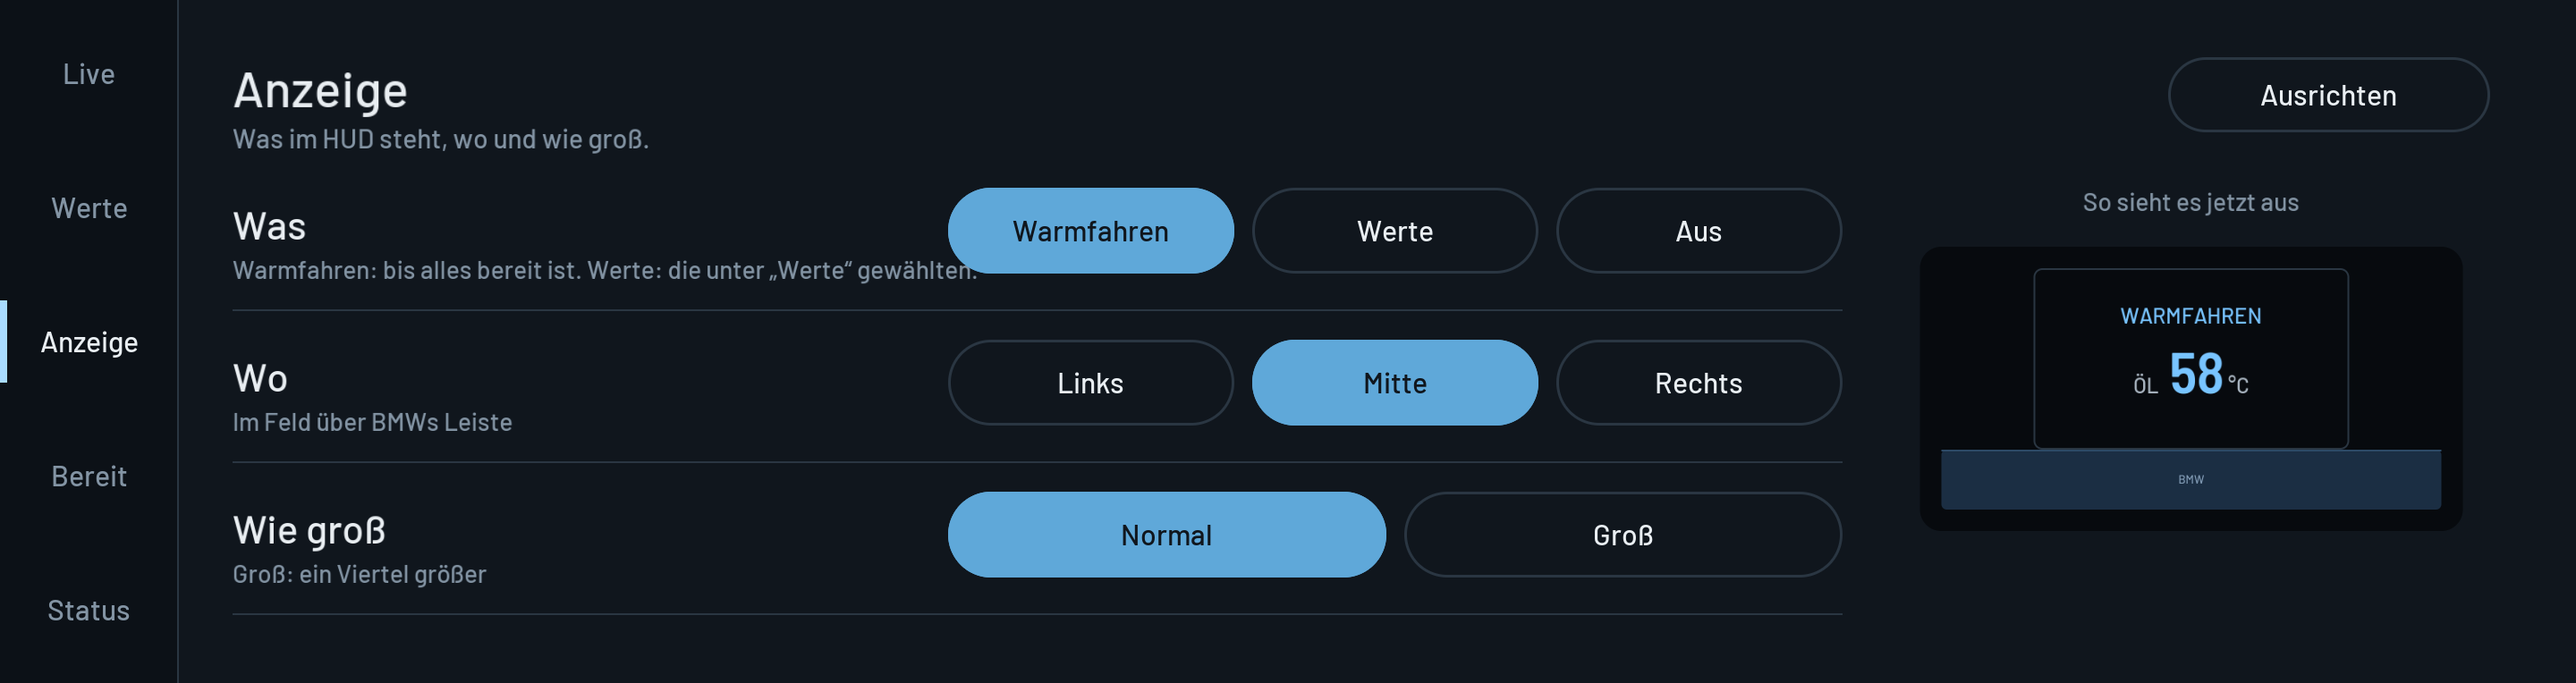
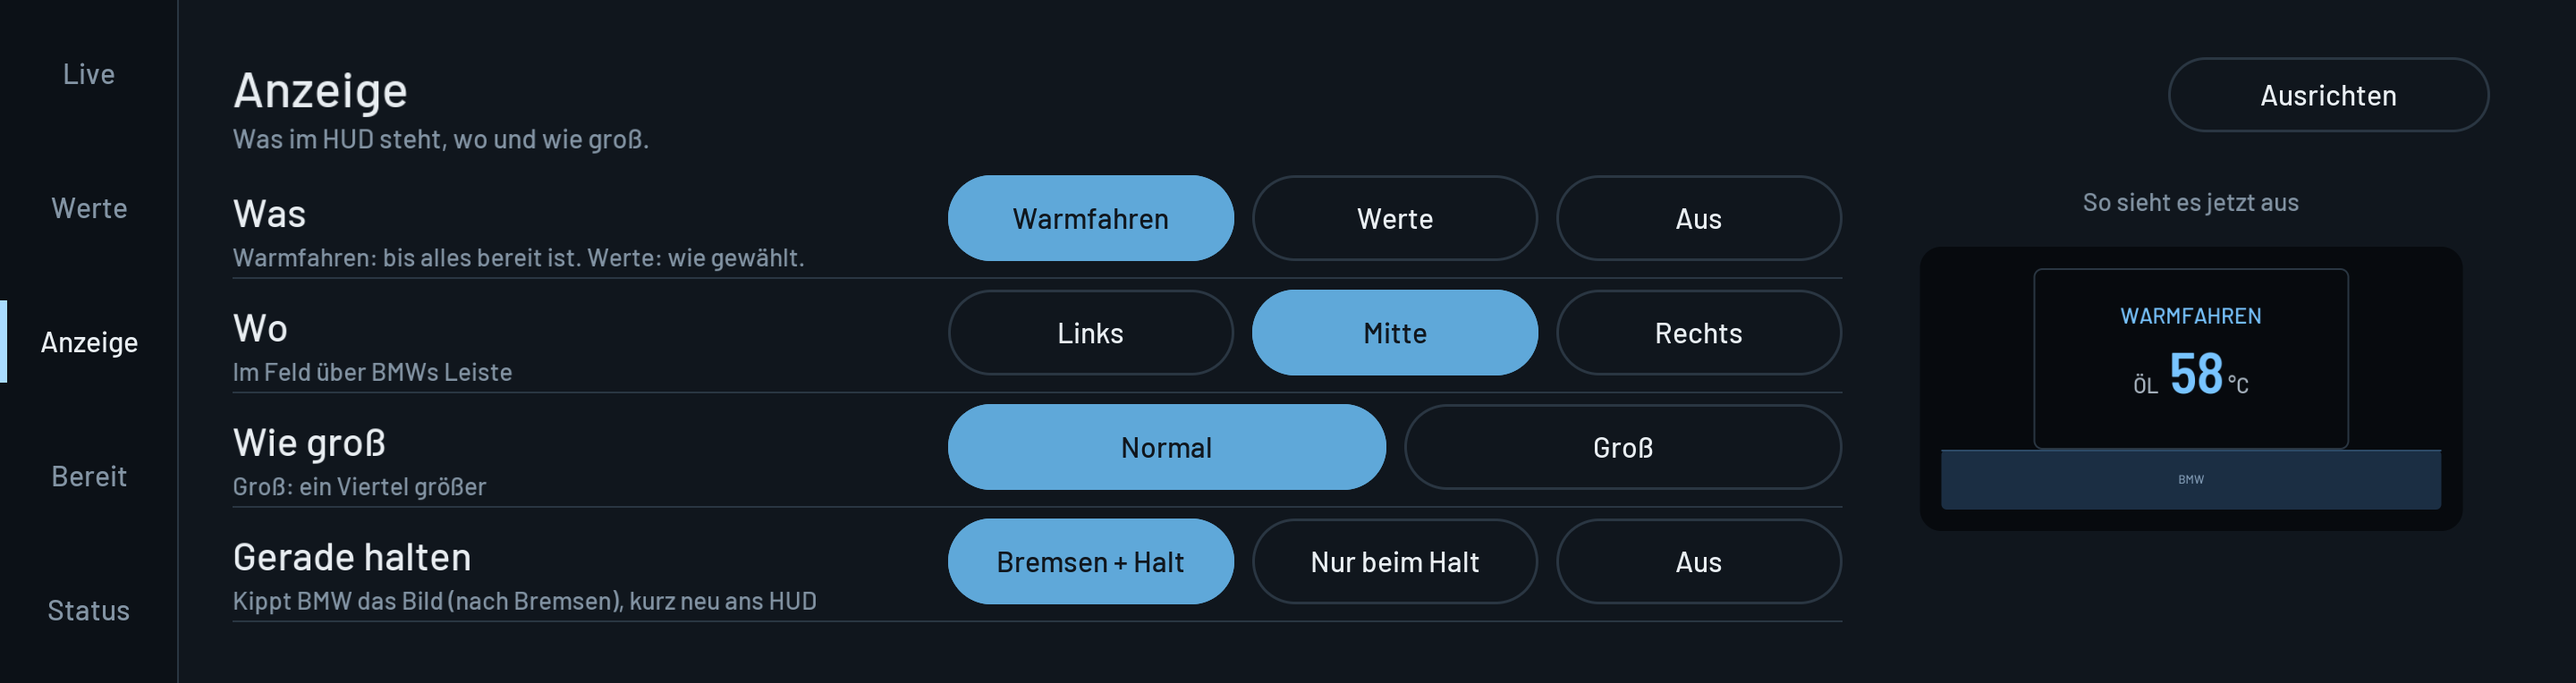
HUD 0.5.0: Gerade halten – Bild nach starkem Bremsen und beim Halt neu ans HUD
Das G87-HUD legt unser Bild nach staerkerem Bremsen schraeg (im Auto beobachtet, Kombi meldet nichts)
und richtet es erst bei neuer Uebergabe wieder gerade. Tempo (Vehicle2) und Laengsbeschleunigung (CDS2)
nur lesend; Bild 4 s weg, hoechstens alle 20 s; Einstellung Anzeige > Gerade halten; Protokoll.

diff --git a/apps/km_hudtest/tools/test_refresh.js b/apps/km_hudtest/tools/test_refresh.js
@@ -1,0 +1,120 @@
+'use strict';
+/**
+ * Gerade halten (settings refresh): the G87's HUD keeps our picture slanted after harder braking until it is handed
+ * over anew. From the car's speed (Vehicle2) and braking (CDS2) signals: a moment after harder braking and at a stop
+ * after driving, the picture goes away for REFRESH_HIDE_MS (the renderer gives the HUD back) and comes again; at most
+ * every REFRESH_GAP_MS; never with the setting off; noted in diag.log.
+ *
+ *   node apps/km_hudtest/tools/test_refresh.js
+ */
+const assert = require('assert');
+const EventEmitter = require('events');
+const fs = require('fs');
+const net = require('net');
+const os = require('os');
+const path = require('path');
+
+const dir = fs.mkdtempSync(path.join(os.tmpdir(), 'km-refresh-'));
+process.env.KM_CR_SOCKET = path.join(dir, 'render.sock');
+process.env.KM_DATA_DIR = dir;
+
+const service = { layers: [], sets: [], frames: 0 };
+const send = (sock, obj) => {
+    const body = Buffer.from(JSON.stringify(obj));
+    const head = Buffer.alloc(5);
+    head.writeUInt32LE(body.length + 1, 0);
+    head[4] = 0x4a;
+    sock.write(Buffer.concat([head, body]));
+};
+const server = net.createServer((sock) => {
+    let buf = Buffer.alloc(0);
+    sock.on('error', () => {});
+    sock.on('data', (d) => {
+        buf = Buffer.concat([buf, d]);
+        while (buf.length >= 5) {
+            const len = buf.readUInt32LE(0);
+            if (buf.length < 4 + len) break;
+            const type = buf[4];
+            const body = buf.slice(5, 4 + len);
+            buf = buf.slice(4 + len);
+            if (type !== 0x4a) { service.frames++; continue; }
+            const m = JSON.parse(body.toString());
+            if (m.op === 'hello') send(sock, { ev: 'hello', proto: 1, backend: 'id8', targets: 'hud:353x203' });
+            if (m.op === 'layer') service.layers.push(m);
+            if (m.op === 'set') service.sets.push(m);
+        }
+    });
+});
+
+const cds = new EventEmitter();
+const cdsProxy = () => ({ init: () => Promise.resolve(), waitUntilAvailable: () => Promise.resolve(),
+    statusEngineTemperature: { subscribe: (cb) => { cds.on('t', cb); return Promise.resolve(); } },
+    statusEngineSpeed2: { subscribe: () => Promise.resolve() } });
+const tasu = () => ({ init: () => Promise.resolve(), waitUntilAvailable: () => Promise.resolve(),
+    sendTasuResponse: { subscribe: () => Promise.resolve() }, sendTasuRequest: () => Promise.resolve({ TasuErrorEnum: 'NO_ERROR' }) });
+
+
+const veh = new EventEmitter();
+const vehProxy = () => ({ init: () => Promise.resolve(), waitUntilAvailable: () => Promise.resolve(),
+    statusCarSpeed2: { subscribe: (cb) => { veh.on('speed', cb); return Promise.resolve(); } } });
+const cds2Proxy = () => ({ init: () => Promise.resolve(), waitUntilAvailable: () => Promise.resolve(),
+    statusLongitudinalAccelerationMassCenter: { subscribe: (cb) => { veh.on('accel', cb); return Promise.resolve(); } } });
+const kmh = (v) => veh.emit('speed', { speedVehicleCentreOfGravity: Math.round(v / 0.015625) });
+const ms2 = (a) => veh.emit('accel', { longitudinalAccelerationCentreOfGravity: Math.round((a + 65) / 0.002) });
+
+server.listen(process.env.KM_CR_SOCKET, () => {
+    const unit = require('../../../tools/fake_unit.js').install(require('../spec.js'), require('../package/rhmiData/application.json'), {
+        'com.harman.infotainment.systemfunctions.tasu.tasu.InternalTasu': tasu, 'de.bmw.infotainment.vehicle.CDS': cdsProxy,
+        'de.bmw.infotainment.vehicle.Vehicle2': vehProxy, 'de.bmw.infotainment.vehicle.CDS2': cds2Proxy });
+    const realExit = process.exit;
+    process.exit = () => {};
+    let app = null;
+    const { ListApp } = require('../src/screen.js');
+    const start = ListApp.prototype.start;
+    ListApp.prototype.start = function () { app = this; return start.apply(this, arguments); };
+    require('../src/hudtest.js');
+    const visible = () => { const v = service.sets.filter((x) => 'visible' in x); return v.length ? v[v.length - 1].visible : null; };
+    const hides = () => service.sets.filter((x) => x.visible === 0).length;
+    (async () => {
+        await unit.wait(1200);
+        assert.ok(app && app._started);
+        assert.strictEqual(app._settings.refresh, 'auto', 'on by default');
+        cds.emit('t', { temperatureEngineOilDrive: 40 + 48, temperatureEngineDrive: 50 + 48 });
+        await unit.wait(1200);
+        assert.strictEqual(visible(), 1, 'shown (warming up)');
+        const before = hides();
+        // driving, then braking hard: a moment after, the picture away and back
+        kmh(50); ms2(-0.5);
+        await unit.wait(300);
+        ms2(-6); await unit.wait(200); ms2(-1);
+        await unit.wait(2000);
+        assert.strictEqual(hides(), before, 'not while braking');
+        await unit.wait(1500);
+        assert.strictEqual(visible(), 0, 'away a moment after the braking');
+        await unit.wait(4500);
+        assert.strictEqual(visible(), 1, 'back');
+        // a stop right after: not again within REFRESH_GAP_MS
+        kmh(0);
+        await unit.wait(2500);
+        assert.strictEqual(hides(), before + 1, 'not twice within 20 s');
+        // later, the next stop after driving: again
+        app._refresh.last -= 20000;
+        kmh(40); await unit.wait(200); kmh(0);
+        await unit.wait(2500);
+        assert.strictEqual(visible(), 0, 'away at the stop');
+        await unit.wait(4500);
+        assert.strictEqual(visible(), 1, 'back');
+        // setting off: nothing
+        app._refresh.last -= 20000;
+        app._set(Object.assign({}, app._settings, { refresh: 'off' }));
+        const n = hides();
+        kmh(40); await unit.wait(200); ms2(-6); await unit.wait(200); ms2(0); kmh(0);
+        await unit.wait(5000);
+        assert.strictEqual(hides(), n, 'off: never');
+        await new Promise((r) => require('../src/diag.js').flush(r));
+        const log = fs.readFileSync(path.join(dir, 'diag.log'), 'utf8');
+        assert.ok(/starkes Bremsen \(-6\.0/.test(log) && /neu übergeben \(Bremsen\)/.test(log) && /neu übergeben \(Halt\)/.test(log), log);
+        console.log('test_refresh: ok');
+        realExit(0);
+    })().catch((e) => { console.error(e); realExit(1); });
+});

diff --git a/apps/km_hudtest/src/hudtest.js b/apps/km_hudtest/src/hudtest.js
@@ -31,6 +31,20 @@ const LIST = 'ST_OnlineApps_HudTest';
 const LAYER = 'ST_OnlineApps_HudTestLayer';
 const PROXIES = 24;             // the host state's proxy buttons (spec.js PROXIES)
 const IF_CDS = 'de.bmw.infotainment.vehicle.CDS';
+const IF_VEHICLE2 = 'de.bmw.infotainment.vehicle.Vehicle2';
+const IF_CDS2 = 'de.bmw.infotainment.vehicle.CDS2';
+const SPEED_FACTOR = 0.015625;   // statusCarSpeed2.speedVehicleCentreOfGravity -> km/h (65535 invalid)
+const ACCEL_FACTOR = 0.002;      // statusLongitudinalAccelerationMassCenter -> m/s², offset ACCEL_OFFSET
+const ACCEL_OFFSET = -65;
+const SIGNAL_INVALID = 65535;
+/* Handing the HUD picture over anew (settings refresh): BMW keeps a picture slanted until it comes anew. */
+const BRAKE_MS2 = -3.5;          // braking harder than this (about a third of g) ...
+const AFTER_BRAKE_MS = 2500;     // ... then this long after the last of it: the picture anew
+const MOVED_KMH = 10;            // a stop counts after the car went faster than this
+const STOP_KMH = 1;
+const STOP_MS = 1500;            // standing this long
+const REFRESH_HIDE_MS = 4000;    // the picture away this long: the renderer gives the HUD back (linger 3 s), then offers anew
+const REFRESH_GAP_MS = 20000;    // at most this often
 /* CDS temperatures: raw - 48 = °C, 255 = no value; engine speed raw * 0.25, 65535 = no value (as Motordaten). */
 const TEMP_INVALID = 255;
 const RPM_INVALID = 65535;
@@ -69,6 +83,8 @@ class HudApp extends ListApp {
         this._view = null;              // what the HUD shows now (src/warmup.js)
         this._test = 0;                 // when "Im HUD testen" started (0: not testing)
         this._v = {};                   // oil, coolant, rpm (the car's signal); boost, oilPress, intake, gearbox, voltage
+        this._drive = { kmh: null, moved: false, stillSince: 0, brakeAt: 0, braking: false };
+        this._refresh = { due: 0, why: '', until: 0, last: 0 };
         this._at = {};                  // when each value read through the gateway last came
         this._gateway = 'wait';         // wait | open | failed
         this._gatewayError = '';
@@ -109,6 +125,7 @@ class HudApp extends ListApp {
             this._hud.show(false);
             this._hud.start();
             this._subscribe();
+            this._subscribeDrive();
             this._loop();
             this._startDrawn();
         } else {
@@ -342,6 +359,22 @@ class HudApp extends ListApp {
                 this._test = 0;
             }
         }
+        // the speed may come only when it changes: a stop is also seen by the time standing
+        const d = this._drive;
+        if (d.moved && d.kmh !== null && d.kmh < STOP_KMH) this._speed(d.kmh, now);
+        // Gerade halten: the picture away for a moment, so the HUD takes it anew (straight)
+        const r = this._refresh;
+        if (r.due && now >= r.due && view && this._hud.isOn() && now - r.last >= REFRESH_GAP_MS && this._settings.refresh !== 'off') {
+            r.until = now + REFRESH_HIDE_MS;
+            r.last = now;
+            Diag.note(`HUD-Bild neu übergeben (${r.why})`);
+            r.due = 0;
+        } else if (r.due && now >= r.due) {
+            r.due = 0;
+        }
+        if (now < r.until && view && view.mode !== 'grid') {
+            view = null;
+        }
         this._view = view;
         if (view) {
             // coming on: drawn at once, so the HUD never shows what it had before
@@ -353,6 +386,68 @@ class HudApp extends ListApp {
             this._hud.show(false);
         }
         this._render();
+    }
+
+    /* ---- the car's speed and braking: when to hand the picture over anew ---- */
+
+    _subscribeDrive() {
+        const watch = (iface, attr, fn) => {
+            let proxy;
+            new Promise((resolve) => setImmediate(resolve))
+                .then(() => someipBuilders.buildTypedProxy(iface, '1'))
+                .then((p) => { proxy = p; return proxy.init(); })
+                .then(() => proxy.waitUntilAvailable())
+                .then(() => proxy[attr].subscribe((v) => { if (!this._stopped) fn(v); }))
+                .catch((e) => logger.warn(`${attr}: ${e && e.message}`));
+        };
+        watch(IF_VEHICLE2, 'statusCarSpeed2', (v) => {
+            const raw = v && v.speedVehicleCentreOfGravity;
+            this._speed(isNum(raw) && raw !== SIGNAL_INVALID ? raw * SPEED_FACTOR : null, Date.now());
+        });
+        watch(IF_CDS2, 'statusLongitudinalAccelerationMassCenter', (v) => {
+            const raw = v && v.longitudinalAccelerationCentreOfGravity;
+            this._accel(isNum(raw) && raw !== SIGNAL_INVALID ? raw * ACCEL_FACTOR + ACCEL_OFFSET : null, Date.now());
+        });
+    }
+
+    _speed(kmh, now) {
+        const d = this._drive;
+        if (kmh === null) return;
+        d.kmh = kmh;
+        if (kmh > MOVED_KMH) {
+            if (!d.moved) Diag.note('Fahrt: losgefahren');
+            d.moved = true;
+            d.stillSince = 0;
+        } else if (kmh < STOP_KMH && d.moved) {
+            d.stillSince = d.stillSince || now;
+            if (now - d.stillSince >= STOP_MS) {
+                d.moved = false;
+                d.stillSince = 0;
+                Diag.note('Fahrt: angehalten');
+                this._refreshDue('Halt', now);
+            }
+        } else {
+            d.stillSince = 0;
+        }
+    }
+
+    _accel(ms2, now) {
+        const d = this._drive;
+        if (ms2 === null) return;
+        if (ms2 <= BRAKE_MS2) {
+            if (!d.braking) Diag.note(`Fahrt: starkes Bremsen (${ms2.toFixed(1)} m/s²)`);
+            d.braking = true;
+            d.brakeAt = now;
+            if (this._settings.refresh === 'auto') this._refreshDue('Bremsen', now + AFTER_BRAKE_MS);
+        } else if (d.braking && now - d.brakeAt > 1000) {
+            d.braking = false;
+        }
+    }
+
+    _refreshDue(why, at) {
+        if (this._settings.refresh === 'off') return;
+        this._refresh.due = Math.max(this._refresh.due, at);
+        this._refresh.why = why;
     }
 
     /* ---- the values ---- */

diff --git a/apps/km_hudtest/src/dash.js b/apps/km_hudtest/src/dash.js
@@ -72,10 +72,11 @@ const MAIN_TARGETS = segments('mode', LIVE.x, 520, LIVE.w, BTN).concat([
 const ROW_X = 1060;
 const ROW_W = 1000;
 const DISPLAY_ROWS = [
-    { key: 'mode', label: 'Was', text: 'Warmfahren: bis alles bereit ist. Werte: die unter „Werte“ gewählten.' },
+    { key: 'mode', label: 'Was', text: 'Warmfahren: bis alles bereit ist. Werte: wie gewählt.' },
     { key: 'pos', label: 'Wo', text: 'Im Feld über BMWs Leiste' },
-    { key: 'size', label: 'Wie groß', text: 'Groß: ein Viertel größer' }
-].map((r, i) => Object.assign(r, { y: 210 + i * 170 }));
+    { key: 'size', label: 'Wie groß', text: 'Groß: ein Viertel größer' },
+    { key: 'refresh', label: 'Gerade halten', text: 'Kippt BMW das Bild (nach Bremsen), kurz neu ans HUD' }
+].map((r, i) => Object.assign(r, { y: 196 + i * 128 }));
 const DISPLAY_TARGETS = [].concat(...DISPLAY_ROWS.map((r) => segments(r.key, ROW_X, r.y, ROW_W, BTN)))
     .concat([{ id: 'page:align', x: W - PAD - 360, y: 64, w: 360, h: 84, label: 'Ausrichten' }]);
 
@@ -298,7 +299,7 @@ function displayPage(rec, v, cfg, ui) {
     DISPLAY_ROWS.forEach((r) => {
         rec.text(r.label, X0, r.y + 58, 44, C.text, { font: 'label' });
         rec.text(r.text, X0, r.y + 102, 28, C.dim, { font: 'label' });
-        rec.fillRect(X0, r.y + BTN + 40, ROW_X + ROW_W - X0, 2, C.line);
+        rec.fillRect(X0, r.y + BTN + 18, ROW_X + ROW_W - X0, 2, C.line);
     });
     DISPLAY_TARGETS.forEach((t) => button(rec, Object.assign({}, t, { on: t.key ? cfg[t.key] === t.word : false }), ui));
     // beside the rows: how it would look (the test's warm-up look when the HUD shows nothing now)

diff --git a/apps/km_hudtest/src/settings.js b/apps/km_hudtest/src/settings.js
@@ -16,7 +16,11 @@ const CHOICES = Object.freeze({
     // (cold ones blue, hot ones red); off: nothing
     mode: { def: 'warm', all: ['warm', 'values', 'off'], words: { warm: 'Warmfahren', values: 'Werte', off: 'Aus' } },
     pos: { def: 'center', all: ['left', 'center', 'right'], words: { left: 'Links', center: 'Mitte', right: 'Rechts' } },
-    size: { def: 'normal', all: ['normal', 'large'], words: { normal: 'Normal', large: 'Groß' } }
+    size: { def: 'normal', all: ['normal', 'large'], words: { normal: 'Normal', large: 'Groß' } },
+    // Gerade halten: the G87's HUD lays our picture slanted after it showed something of its own (seen after harder
+    // braking, kept even parked) and straight again when the picture is handed over anew. auto: handed over anew a
+    // moment after harder braking and at each stop after driving; stop: only at a stop; off: never
+    refresh: { def: 'auto', all: ['auto', 'stop', 'off'], words: { auto: 'Bremsen + Halt', stop: 'Nur beim Halt', off: 'Aus' } }
 });
 
 const ITEMS = Object.freeze([

diff --git a/apps/km_hudtest/spec.js b/apps/km_hudtest/spec.js
@@ -43,6 +43,9 @@ module.exports = {
         // engine speed, oil and coolant (statusEngineSpeed2, statusEngineTemperature: as Motordaten); the gateway for
         // the oil when the signal has none, and for the values shown under Werte that only the units have
         'de.bmw.infotainment.vehicle.CDS': { instances: '1', attributes: { statusEngineSpeed2: 's', statusEngineTemperature: 's' } },
+        // the car's speed and braking (read only): when to hand the HUD picture over anew (settings refresh)
+        'de.bmw.infotainment.vehicle.Vehicle2': { instances: '1', attributes: { statusCarSpeed2: 's' } },
+        'de.bmw.infotainment.vehicle.CDS2': { instances: '1', attributes: { statusLongitudinalAccelerationMassCenter: 's' } },
         'com.harman.infotainment.systemfunctions.tasu.tasu.InternalTasu': {
             instances: 'SystemFunctionsInternalTasuInst1',
             methods: ['sendTasuRequest'],

diff --git a/README.md b/README.md
@@ -30,6 +30,8 @@ installieren. Dann reicht „Logs senden“: je Druck eine Datei `<app>/<Datum_U
 Repositories schreiben, auf denen der Nutzer sie installiert hat; kein Passwort und kein Schlüssel im Code, der
 Zugang bleibt im Datenordner der App im Auto (`shared/github_logs.js`, `shared/qr.js`).
 
+HUD „Gerade halten“ (Anzeige): Das G87-HUD legt unser Bild nach stärkerem Bremsen schräg und behält das, bis das Bild neu übergeben wird. Die App liest dafür Tempo (Vehicle2 statusCarSpeed2) und Längsbeschleunigung (CDS2), nur lesend, und übergibt das Bild kurz nach starkem Bremsen und bei jedem Halt nach der Fahrt neu (etwa 4 s weg, höchstens alle 20 s; einstellbar: Bremsen + Halt, Nur beim Halt, Aus).
+
 ### HUD
 
 1. Im Store **HUD** installieren (bringt den **Cluster renderer** von `robertnisipeanu/idrive-apps` mit), Headunit neu starten, App öffnen.
